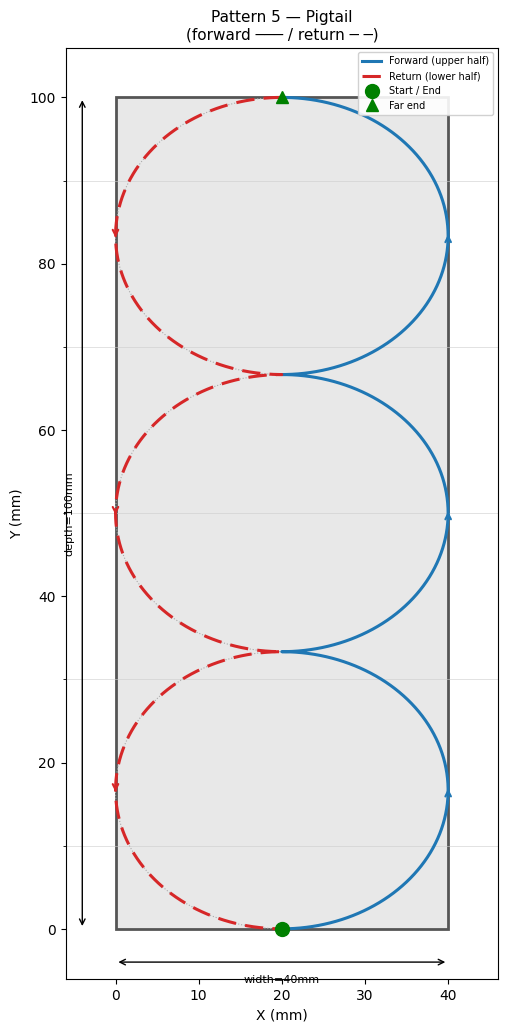
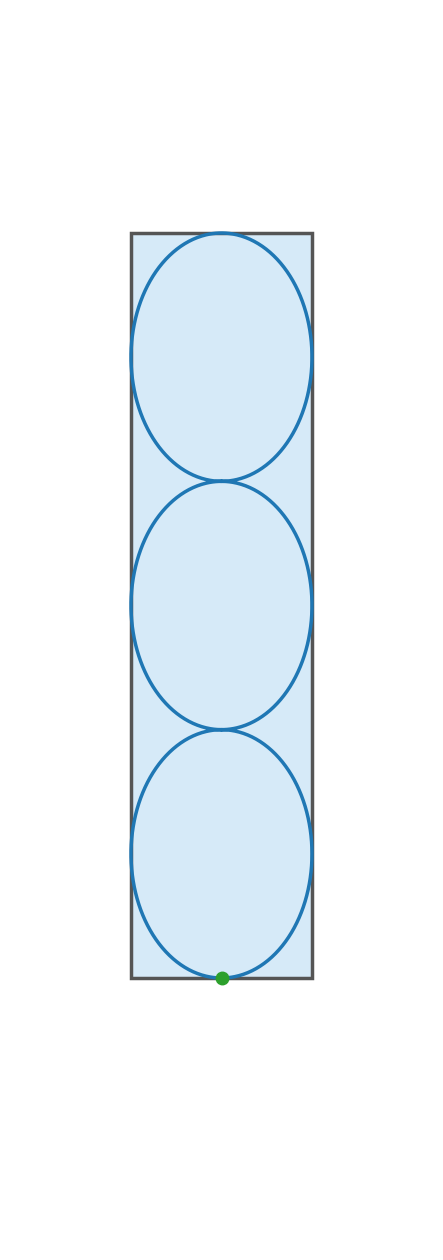
Update pattern5 image to new format and rename Pigtail to Circular everywhere
Agent-Logs-Url: https://github.com/porrey/Klipper-Macros/sessions/5d0a9f24-49c1-4708-936b-d749d331c098

diff --git a/Nozzle-Clean/nozzle-clean.md b/Nozzle-Clean/nozzle-clean.md
@@ -119,7 +119,7 @@ NOZZLE_CLEAN PATTERN=3
 NOZZLE_CLEAN PATTERN=4
 ```
 
-### Use the pigtail pattern
+### Use the circular pattern
 ```gcode
 NOZZLE_CLEAN PATTERN=5
 ```
@@ -194,7 +194,7 @@ This macro stores behavior settings and defaults as variables. It does **not** e
 | `variable_default_keep_hotend_on` | `1` keep hotend on, `0` turn hotend off |
 | `variable_default_retract_distance` | Default filament retract distance before cleaning (negative = retract) |
 | `variable_default_retract_f` | Default retraction feedrate (mm/min) |
-| `variable_default_wipe_pattern` | Default wipe pattern (`0` = straight line, `1` = zig-zag, `2` = wave, `3` = spiral inward, `4` = criss-cross, `5` = pigtail) |
+| `variable_default_wipe_pattern` | Default wipe pattern (`0` = straight line, `1` = zig-zag, `2` = wave, `3` = spiral inward, `4` = criss-cross, `5` = circular) |
 | `variable_always_heat` | `True` always heat/wait to `TEMP`; `False` only heat/wait if below `(TEMP-2)` |
 
 ---
@@ -208,7 +208,7 @@ This macro stores behavior settings and defaults as variables. It does **not** e
 | Wave | `2` | Wipes in a sinusoidal wave pattern along the long axis of the pad |
 | Spiral Inward | `3` | Traces concentric rectangles starting from the pad edge, stepping inward each loop until the center is reached |
 | Criss-Cross | `4` | Traces two diagonals across the pad forming an X shape, crossing the long side on each arm |
-| Pigtail | `5` | Traces elliptical loops that progress along the long axis; the forward pass covers the upper half of each loop and the return covers the lower half so the full pad is wiped |
+| Circular | `5` | Traces elliptical loops that progress along the long axis; the forward pass covers the upper half of each loop and the return covers the lower half so the full pad is wiped |
 
 ### Pattern Diagrams
 
@@ -224,9 +224,9 @@ This macro stores behavior settings and defaults as variables. It does **not** e
 |:---:|
 | ![Pattern 4 – Criss-Cross](Images/pattern4.png) |
 
-| Pattern 5 — Pigtail |
+| Pattern 5 — Circular |
 |:---:|
-| ![Pattern 5 – Pigtail](Images/pattern5.png) |
+| ![Pattern 5 – Circular](Images/pattern5.png) |
 
 The wipe axis (X or Y) is **automatically determined** from the pad geometry:
 - If `variable_depth > variable_width`: wipes in the **Y** direction
@@ -246,7 +246,7 @@ Clean the nozzle using the configured pad.
 |---|---|---|---|
 | `TEMP` | int | `default_temp` | Nozzle cleaning temperature in °C (`0` = no heating) |
 | `PASSES` | int | `default_passes` | Number of wipe passes |
-| `PATTERN` | int | `default_wipe_pattern` | Wipe pattern (`0` = straight line, `1` = zig-zag, `2` = wave, `3` = spiral inward, `4` = criss-cross, `5` = pigtail) |
+| `PATTERN` | int | `default_wipe_pattern` | Wipe pattern (`0` = straight line, `1` = zig-zag, `2` = wave, `3` = spiral inward, `4` = criss-cross, `5` = circular) |
 | `Z` | float | calculated from pad geometry | Override wipe height (absolute Z) for this run |
 | `KEEP_HOTEND_ON` | int (0/1) | `default_keep_hotend_on` | Keep nozzle hot afterward (1) or turn off (0) |
 | `RETRACT_DISTANCE` | float | `default_retract_distance` | Override filament retract distance (negative = retract) |
@@ -380,7 +380,7 @@ For **Pattern 4 (Criss-Cross)**:
   4. Return to `(pad_x, pad_y)` along the short edge, completing the X.
 - This pattern covers the entire pad surface with two full diagonal strokes per pass.
 
-For **Pattern 5 (Pigtail)**:
+For **Pattern 5 (Circular)**:
 - The nozzle starts at the center of the short edge at the beginning of the long axis.
 - The pad is divided into `variable_circle_count` equal slots along the long axis; each slot contains one elliptical loop.
   - Long semi-axis of each loop = `travel_len / (2 × circle_count)` — loops fit end-to-end with no gaps.
@@ -510,7 +510,7 @@ gcode:
 ## Changelog
 
 - **v1.4.0** (Last Updated: 2026-04-04)
-  - Added Pattern 5 (Pigtail): elliptical loops that progress along the long axis; the forward pass traces the upper half of each loop and the return traces the lower half, covering the full pad without retracing (`Patterns/pattern5.cfg`).
+  - Added Pattern 5 (Circular): elliptical loops that progress along the long axis; the forward pass traces the upper half of each loop and the return traces the lower half, covering the full pad without retracing (`Patterns/pattern5.cfg`).
   - Added `variable_circle_count` and `variable_segments_per_circle` to `_WIPE_PATTERN_PARAMETERS_5`.
   - Added `Images/pattern5.png` diagram.
 
